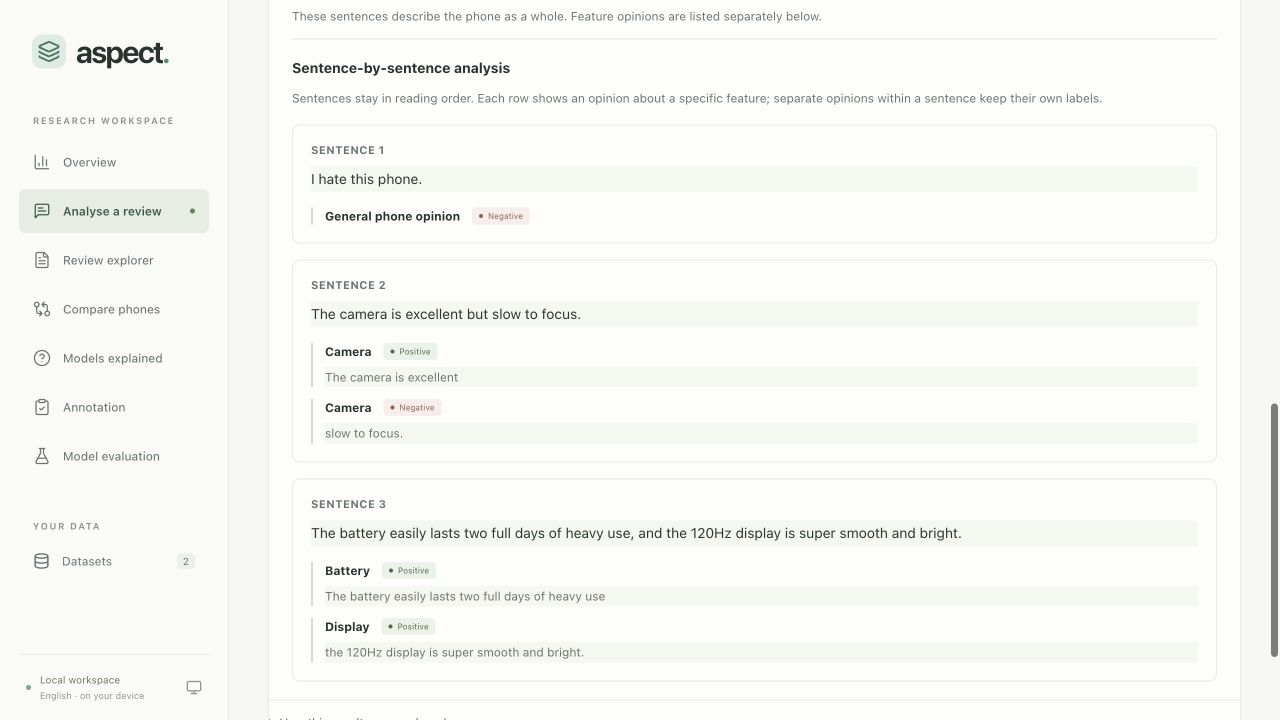
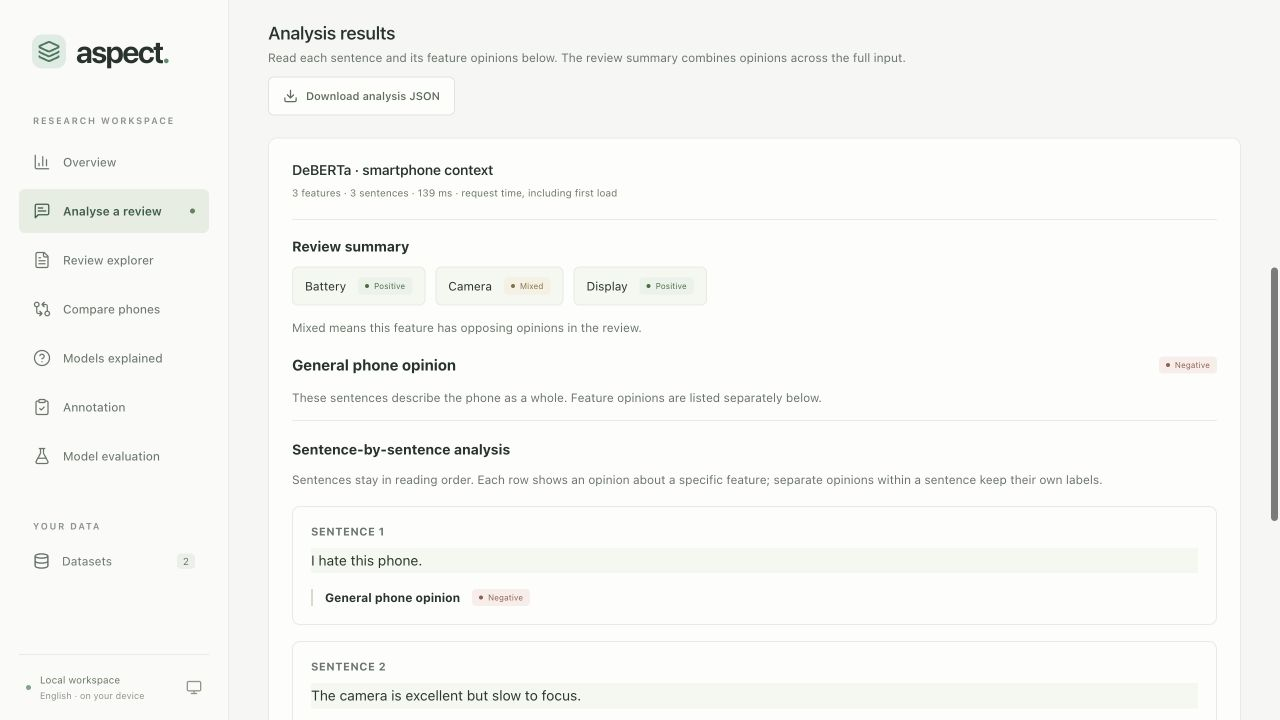
fix: retain explicit phone speed beside camera opinions

diff --git a/src/smartphone_absa/models/live.py b/src/smartphone_absa/models/live.py
@@ -47,6 +47,12 @@ PERFORMANCE_CUES = re.compile(
     r"multitask\w*|stutter\w*|freez\w*)\b",
     re.I,
 )
+PHONE_SPEED = re.compile(
+    r"\b(?:phone|device)\s+(?:is|feels?|runs?)\s+"
+    r"(?:(?:very|really|quite|so|too)\s+)*(?:fast|slow)\b(?!\s+to\s+focus)|"
+    r"\b(?:fast|slow)\s+(?:phone|device)\b",
+    re.I,
+)
 BATTERY_CHARGING = re.compile(r"\bbatter(?:y|ies)\s+(?:is\s+)?charg\w*\b", re.I)
 ENDURANCE = re.compile(r"\b(?:last\w*|drain\w*|standby|dies?|dead|endurance|capacity)\b", re.I)
 APP_SPEED = re.compile(
@@ -188,6 +194,7 @@ def live_candidates(text: str) -> list[tuple[str, str, str, str, int, int]]:
                         or IMPLICIT["camera"].search(part)
                     )
                     and not PERFORMANCE_CUES.search(part)
+                    and not PHONE_SPEED.search(part)
                 ):
                     continue
                 if (

diff --git a/tests/test_live_analysis.py b/tests/test_live_analysis.py
@@ -39,6 +39,9 @@ from smartphone_absa.models.registry import ModelRegistry
         ("Battery drains quickly but the 5G signal is weak.", {"battery", "connectivity"}),
         ("The camera is excellent but slow to focus.", {"camera"}),
         ("The camera is fast to focus.", {"camera"}),
+        ("The phone is fast with an excellent camera.", {"camera", "performance"}),
+        ("This is a slow phone with a good camera.", {"camera", "performance"}),
+        ("The phone is slow to focus.", {"camera"}),
         ("The phone is fast but the camera is slow to focus.", {"camera", "performance"}),
         ("My main focus is software updates.", {"software"}),
         ("The camera is good but slow phone performance ruins it.", {"camera", "performance"}),

diff --git a/docs/QUALITY_ASSURANCE.md b/docs/QUALITY_ASSURANCE.md
@@ -6,17 +6,17 @@ Verified on 21–22 October 2026. Workflow testing used an isolated synthetic wo
 
 | Check | Result |
 | --- | --- |
-| Python tests | 160 passed, including 23 new regressions |
+| Python tests | 163 passed, including 26 new regressions |
 | Browser-storage failure-path tests | 3 passed |
 | Ruff, Prettier, TypeScript and production build | Passed |
 | Existing written real-model regressions | 42/42 passed |
-| New focus, ellipsis, negation and general-opinion cases | 8/8 passed |
+| New focus, ellipsis, negation and general-opinion cases | 11/11 passed |
 | Earlier additional review probes | 20/21 passed; the existing sarcasm failure remains |
 | Final isolated integration across six installed variants | 287 assertions passed |
 | Large exports | CSV and JSON each contain all 10,001 fixture reviews; filtering is retained |
 | Mobile layout | All seven workspaces fit 390 px without horizontal page overflow |
 
-The [verification record](data/hardening-verification.json) contains case results and browser coverage. The eight [new review inputs](../examples/hardening_review_cases.json) were written during development; their pass rate is not independent model accuracy.
+The [verification record](data/hardening-verification.json) contains case results and browser coverage. The eleven [new review inputs](../examples/hardening_review_cases.json) were written during development; their pass rate is not independent model accuracy.
 
 ### Findings and corrections
 
@@ -25,7 +25,7 @@ The [verification record](data/hardening-verification.json) contains case result
 - Batch jobs had no stop action or visible per-record failure details. Jobs now claim work atomically, stop cooperatively and retain failure reasons. Cancellation during a progress update preserves the stop reason; terminal jobs cannot be overwritten by stale progress.
 - Malformed saved-classifier metadata could break the model catalogue. Invalid entries are skipped before inference dispatch.
 - Browser storage exceptions could prevent rendering or make a server-confirmed annotation save appear to fail. Preference reads/writes are now optional and failure-tolerant. Import controls join the existing unsaved-label guard.
-- Camera focus speed could become general performance, some omitted predicates lost context, and general phone opinions disappeared when other sentences contained aspects. The live policy now handles the covered cases while preserving verbatim evidence offsets. The checkpoint still decides sentiment.
+- Camera focus speed could become general performance, some omitted predicates lost context, and general phone opinions disappeared when other sentences contained aspects. The live policy now handles the covered cases while preserving verbatim evidence offsets. The final scope guard also preserves phone-speed opinions that share a clause with camera praise, while keeping “phone is slow to focus” under camera. The checkpoint still decides sentiment.
 
 ### Browser verification
 
@@ -35,7 +35,7 @@ Live analysis displayed a negative general opinion, separate positive/negative c
 
 ### Upgrade and limits
 
-Migration `005_job_control.sql` is additive. It stores cancellation requests and per-review failure records. Historical jobs do not gain failure details retroactively. Explicitly branded CSVs receive corrected identities on re-import; existing datasets are not rewritten. The earlier v2 adapter keeps its model ID; live v3 now uses `deberta-live-v3-10c9dff3-746e492e`.
+Migration `005_job_control.sql` is additive. It stores cancellation requests and per-review failure records. Historical jobs do not gain failure details retroactively. Explicitly branded CSVs receive corrected identities on re-import; existing datasets are not rewritten. The earlier v2 adapter keeps its model ID; live v3 now uses `deberta-live-v3-10c9dff3-f342bce5`.
 
 The application remains a local, single-worker research tool. Stop waits for the current review; it does not interrupt a neural forward pass or cancel a training experiment. A too-long clause needs shorter source text before retry can succeed. Sarcasm, cross-sentence references and subtle sentiment remain limitations. The 69 real test tasks are unchanged; independent human test evaluation remains pending.
 

diff --git a/README.md b/README.md
@@ -6,7 +6,7 @@ A local research application that turns smartphone reviews into feature-level op
 
 **Release 1.2.0:** improved opinion context, stoppable and resumable batch analysis, per-review failure details, complete streaming exports and downloadable live results. Live analysis keeps source sentences, separate feature opinions and a combined review summary. The app selects **DeBERTa · smartphone context** when installed. The [model map](docs/MODEL_MAP.md) explains the methods; the [demo preparation guide](docs/DEMO_PREPARATION.md) covers the code. Independent human test accuracy remains pending.
 
-Current checks: **160 Python tests**, **3 browser-storage tests**, **50 real-model regression cases** and **287 integration assertions** across six installed variants passed. A separate 21-case set still passes 20 cases, with one documented sarcasm error. Browser checks cover cancellation/recovery, annotation protection, imports, downloads and all seven workspaces at 390 px. These are development checks, not an accuracy estimate. See the [quality record](docs/QUALITY_ASSURANCE.md).
+Current checks: **163 Python tests**, **3 browser-storage tests**, **53 real-model regression cases** and **287 integration assertions** across six installed variants passed. A separate 21-case set still passes 20 cases, with one documented sarcasm error. Browser checks cover cancellation/recovery, annotation protection, imports, downloads and all seven workspaces at 390 px. These are development checks, not an accuracy estimate. See the [quality record](docs/QUALITY_ASSURANCE.md).
 
 [![Checks](https://github.com/raghavnimbalkar1/Aspect-Based-Sentiment-Analysis-of-Smartphone-Reviews/actions/workflows/checks.yml/badge.svg?branch=main)](https://github.com/raghavnimbalkar1/Aspect-Based-Sentiment-Analysis-of-Smartphone-Reviews/actions/workflows/checks.yml)
 ![Python 3.12](https://img.shields.io/badge/Python-3.12-3776AB?logo=python&logoColor=white)

diff --git a/docs/MODEL_MAP.md b/docs/MODEL_MAP.md
@@ -22,7 +22,7 @@ The current adapter is version 3, with an ID starting `deberta-live-v3`.
 
 One sentence can contain several opinions. For example, “The battery lasts two days, and the display is bright” remains one source sentence with two feature rows. Two full sentences appear in two cards. Positive and negative camera clauses keep their separate labels even when the review-level camera summary is mixed.
 
-Source-code and vocabulary hashes form part of the live model ID. Release 1.2.0 uses `deberta-live-v3-10c9dff3-746e492e`. It changes candidate/context handling, without retraining or replacing checkpoint weights. Historical verification records retain their recorded IDs.
+Source-code and vocabulary hashes form part of the live model ID. Release 1.2.0 uses `deberta-live-v3-10c9dff3-f342bce5`. It changes candidate/context handling, without retraining or replacing checkpoint weights. Historical verification records retain their recorded IDs.
 
 “I love this phone” can receive a **general phone opinion**. That is separate from the ten aspects and remains visible when another sentence describes a feature. The app does not invent praise for battery or camera. Retail-only text can correctly return no phone aspect.
 

diff --git a/docs/data/README.md b/docs/data/README.md
@@ -1,6 +1,6 @@
 # Source verification
 
-`hardening-verification.json` records release 1.2.0's 160 Python tests, three storage tests, 287 integration assertions and browser recovery/import/export checks. It includes results for the eight new review cases, the 42 earlier regressions and the separate 21-case set with its unresolved sarcasm case. These are development checks using synthetic fixtures, not independent accuracy data.
+`hardening-verification.json` records release 1.2.0's 163 Python tests, three storage tests, 287 integration assertions and browser recovery/import/export checks. It includes results for the eleven new review cases, the 42 earlier regressions and the separate 21-case set with its unresolved sarcasm case. These are development checks using synthetic fixtures, not independent accuracy data.
 
 `source-audit.json` was generated from the original version-2 CSV files, downloaded from [Griko Nibras's Kaggle dataset](https://www.kaggle.com/datasets/grikomsn/amazon-cell-phones-reviews/versions/2). The publisher lists CC0. Raw files stay outside version control.
 

diff --git a/CHANGELOG.md b/CHANGELOG.md
@@ -8,7 +8,7 @@
 - Improve camera focus attribution, same-sentence omitted predicates and conditional negatives. Retain general phone opinions alongside separate feature sentences.
 - Add live-analysis JSON downloads with original input, model identity, evidence and trace.
 - Tolerate unavailable or full browser storage, protect annotation edits from import actions, and skip malformed saved-model catalogue metadata.
-- Add 23 Python regressions, three storage failure-path tests and eight real-model cases. Verify batch recovery, annotation history, imports, exports and mobile layouts in an isolated workspace.
+- Add 26 Python regressions, three storage failure-path tests and eleven real-model cases. Verify batch recovery, annotation history, imports, exports and mobile layouts in an isolated workspace.
 
 The neural weights are unchanged. The live adapter's policy hash changes its model ID. Earlier adapters and recorded research results retain their identities. The known sarcasm failure and pending independent test evaluation remain documented.
 
